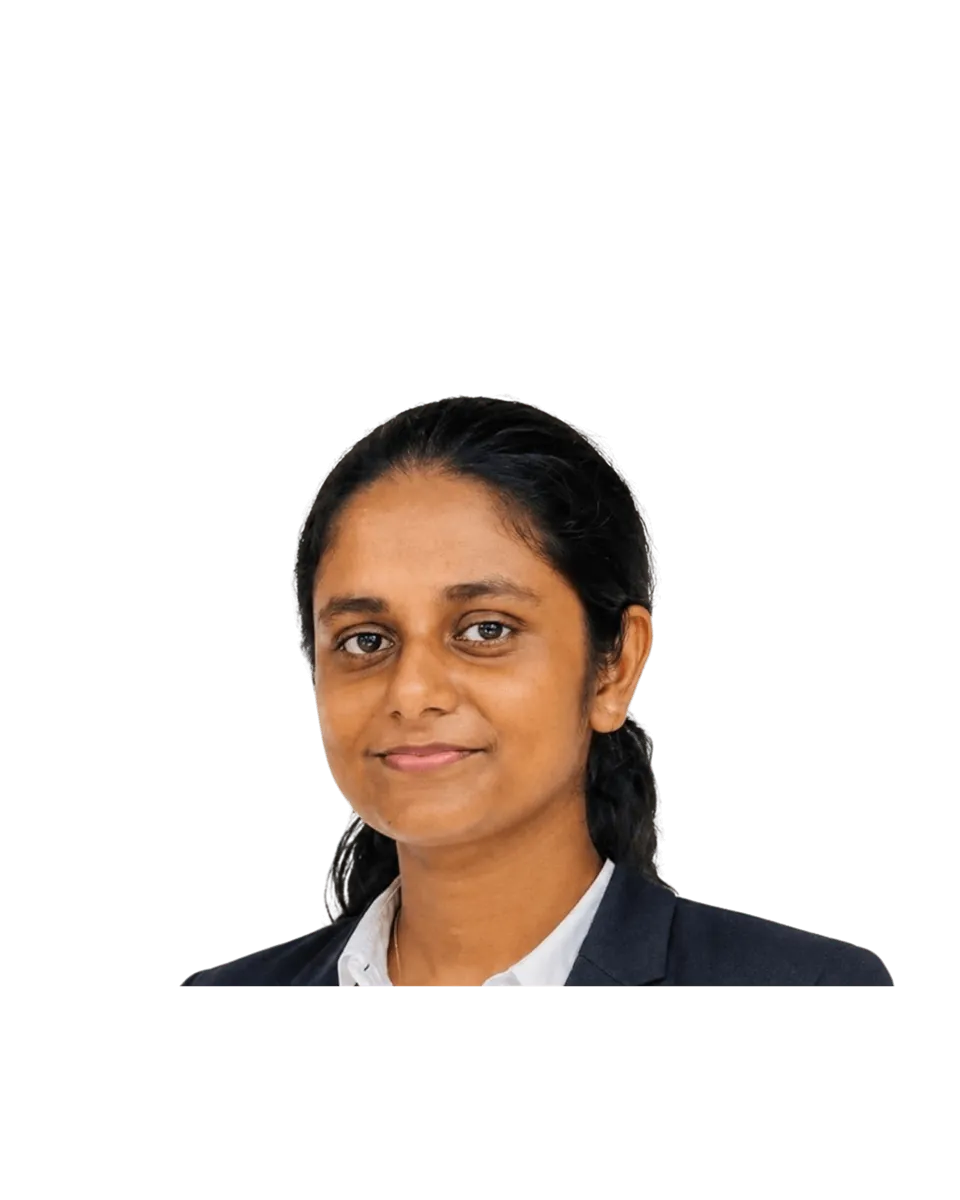
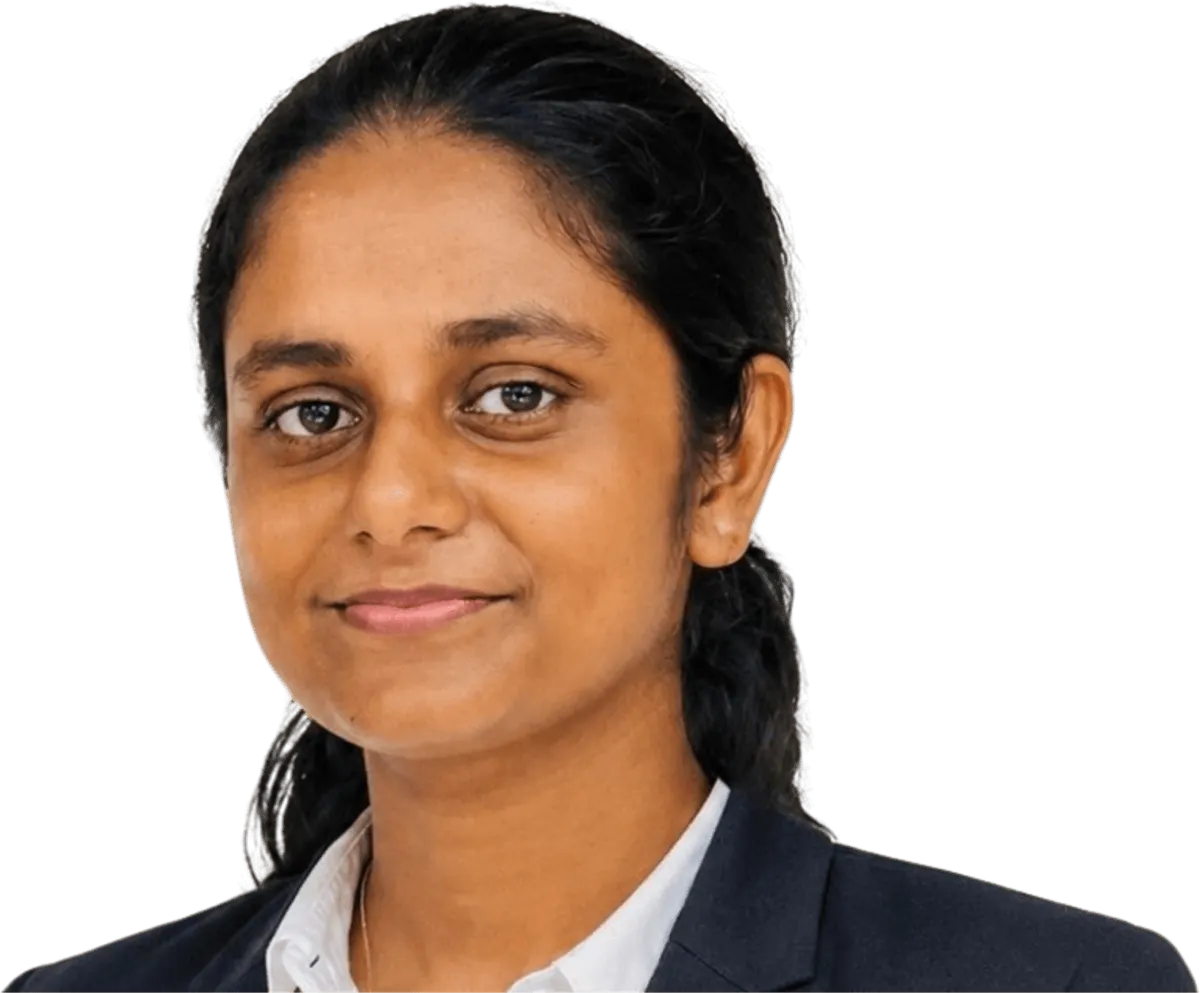
style: reduce oc member image sizes and standardize asset paths for balanced visual proportion

diff --git a/src/pages/OcPosterPage.tsx b/src/pages/OcPosterPage.tsx
@@ -34,7 +34,7 @@ const SECTIONS: SectionData[] = [
         role: 'Organizing Committee President (OCP)',
         image: '/assets/cat-oc-pics/mahdy-hassan-ocp.webp',
         aspect: 0.883,
-        pw: 42,
+        pw: 30,
         bottom: 'calc(-1 * var(--k))',
       },
       {
@@ -42,7 +42,7 @@ const SECTIONS: SectionData[] = [
         role: 'OCVP Finance',
         image: '/assets/cat-oc-pics/monali-edirisinghe-ocvp-finance.webp',
         aspect: 0.399,
-        pw: 21,
+        pw: 14,
         bottom: 'calc(-1 * var(--k))',
       },
     ],
@@ -57,41 +57,41 @@ const SECTIONS: SectionData[] = [
       {
         name: 'Nethuli Gunathilaka',
         role: 'OCVP Partnership Development',
-        image: '/assets/cat-oc-pics/nethuli-trimmed.webp',
+        image: '/assets/cat-oc-pics/nethuli-gunathilaka-ocvp-pd.webp',
         aspect: 0.718,
-        pw: 38,
+        pw: 25,
         bottom: 'calc(-1 * var(--k))',
       },
       {
         name: 'Chetha Atapattu',
         role: 'OCVP Partnership Development',
-        image: '/assets/cat-oc-pics/chetha-trimmed.webp',
+        image: '/assets/cat-oc-pics/chetha-atapattu-ocvp-pd.webp',
         aspect: 0.740,
-        pw: 38,
+        pw: 25,
         bottom: 'calc(-1 * var(--k))',
       },
       {
         name: 'Vimarshi Suraweera',
         role: 'OCVP Partnership Development',
-        image: '/assets/cat-oc-pics/vimarshi-trimmed.webp',
+        image: '/assets/cat-oc-pics/vimarshi-ocvp-pd.webp',
         aspect: 0.833,
-        pw: 42,
+        pw: 28,
         bottom: 'calc(-1 * var(--k))',
       },
       {
         name: 'Gihansa Hasithmi',
         role: 'OCVP Partnership Development',
-        image: '/assets/cat-oc-pics/gihansa-trimmed.webp',
+        image: '/assets/cat-oc-pics/gihansa-ocvp-pd.webp',
         aspect: 1.207,
-        pw: 45,
+        pw: 34,
         bottom: 'calc(-0.5 * var(--k))',
       },
       {
         name: 'Hari Branavan Arulnathan',
         role: 'OCVP Partnership Development',
-        image: '/assets/cat-oc-pics/hari-trimmed.webp',
+        image: '/assets/cat-oc-pics/hari-ocvp-pd.webp',
         aspect: 0.931,
-        pw: 45,
+        pw: 31,
         bottom: 'calc(-1 * var(--k))',
       },
     ],
@@ -108,7 +108,7 @@ const SECTIONS: SectionData[] = [
         role: 'OCVP Marketing',
         image: '/assets/cat-oc-pics/harshitha-yasiru-ocvp-marketing.webp',
         aspect: 0.708,
-        pw: 37,
+        pw: 25,
         bottom: 'calc(-1 * var(--k))',
       },
       {
@@ -116,7 +116,7 @@ const SECTIONS: SectionData[] = [
         role: 'OCVP Marketing',
         image: '/assets/cat-oc-pics/isuri-walpola-ocvp-marketing.webp',
         aspect: 0.739,
-        pw: 38,
+        pw: 25,
         bottom: 'calc(-1 * var(--k))',
       },
       {
@@ -124,7 +124,7 @@ const SECTIONS: SectionData[] = [
         role: 'OCVP Marketing',
         image: '/assets/cat-oc-pics/dahamsa-ocvp-marketing.webp',
         aspect: 1.015,
-        pw: 46,
+        pw: 32,
         bottom: 'calc(-1 * var(--k))',
       },
       {
@@ -132,7 +132,7 @@ const SECTIONS: SectionData[] = [
         role: 'OCVP Marketing',
         image: '/assets/cat-oc-pics/miran-ocvp-marketing.webp',
         aspect: 0.662,
-        pw: 35,
+        pw: 23,
         bottom: 'calc(-1 * var(--k))',
       },
     ],
@@ -149,7 +149,7 @@ const SECTIONS: SectionData[] = [
         role: 'OCVP Del & Events',
         image: '/assets/cat-oc-pics/vindhi-akmeemana-ocvp-delegates-and-events.webp',
         aspect: 0.608,
-        pw: 33,
+        pw: 21,
         bottom: 'calc(-1 * var(--k))',
       },
       {
@@ -157,7 +157,7 @@ const SECTIONS: SectionData[] = [
         role: 'OCVP Del & Events',
         image: '/assets/cat-oc-pics/binushi-ocvp-delegates-and-events.webp',
         aspect: 0.601,
-        pw: 32,
+        pw: 21,
         bottom: 'calc(-1 * var(--k))',
       },
       {
@@ -165,7 +165,7 @@ const SECTIONS: SectionData[] = [
         role: 'OCVP Del & Events',
         image: '/assets/cat-oc-pics/tharuka-ocvp-delegates-and-events.webp',
         aspect: 0.671,
-        pw: 35,
+        pw: 23,
         bottom: 'calc(-1 * var(--k))',
       },
       {
@@ -173,7 +173,7 @@ const SECTIONS: SectionData[] = [
         role: 'OCVP Del & Events',
         image: '/assets/cat-oc-pics/isuri-muthumalee-ocvp-delegates-and-events.webp',
         aspect: 0.904,
-        pw: 45,
+        pw: 30,
         bottom: 'calc(-1 * var(--k))',
       },
     ],
@@ -190,7 +190,7 @@ const SECTIONS: SectionData[] = [
         role: 'OCVP Del & Log',
         image: '/assets/cat-oc-pics/adithya-ocvp-del-x-log.webp',
         aspect: 0.565,
-        pw: 31,
+        pw: 20,
         bottom: 'calc(-1 * var(--k))',
       },
     ],
@@ -207,7 +207,7 @@ const SECTIONS: SectionData[] = [
         role: 'OCVP Logistics',
         image: '/assets/cat-oc-pics/yehan-ocvp-logistics.webp',
         aspect: 0.400,
-        pw: 22,
+        pw: 14,
         bottom: 'calc(-1 * var(--k))',
       },
       {
@@ -215,7 +215,7 @@ const SECTIONS: SectionData[] = [
         role: 'OCVP Logistics',
         image: '/assets/cat-oc-pics/maneesha-ocvp-logistics.webp',
         aspect: 0.563,
-        pw: 30,
+        pw: 20,
         bottom: 'calc(-1 * var(--k))',
       },
       {
@@ -223,7 +223,7 @@ const SECTIONS: SectionData[] = [
         role: 'OCVP Logistics',
         image: '/assets/cat-oc-pics/lakwan-ocvp-logistics.webp',
         aspect: 0.654,
-        pw: 35,
+        pw: 23,
         bottom: 'calc(-1 * var(--k))',
       },
     ],

diff --git a/src/styles/oc-poster.css b/src/styles/oc-poster.css
@@ -1,6 +1,6 @@
 /* Catalyst 7.0 OC Poster Styles */
 .oc-poster-page {
-  --ph: url('/assets/cat-oc-pics/nethuli-trimmed.webp');
+  --ph: url('/assets/cat-oc-pics/nethuli-gunathilaka-ocvp-pd.webp');
   --ar: 0.717;
   --pw: 36;
   --bg: #f3e9eb;
